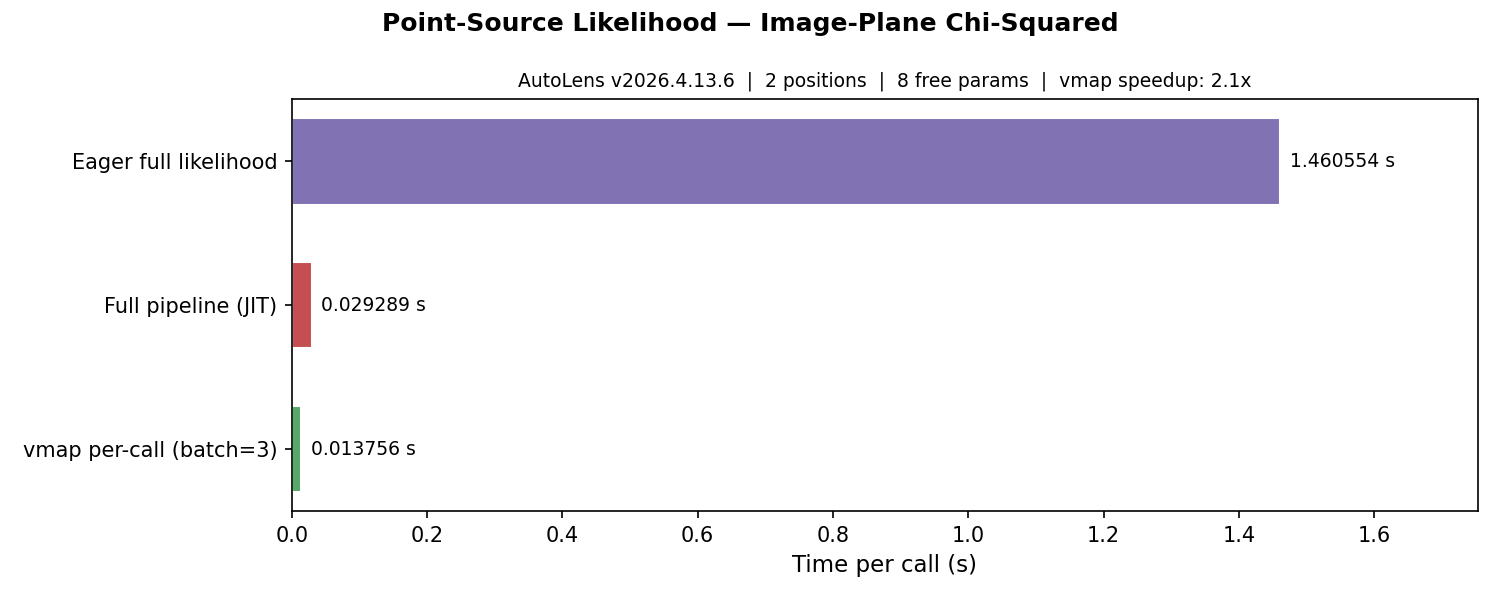
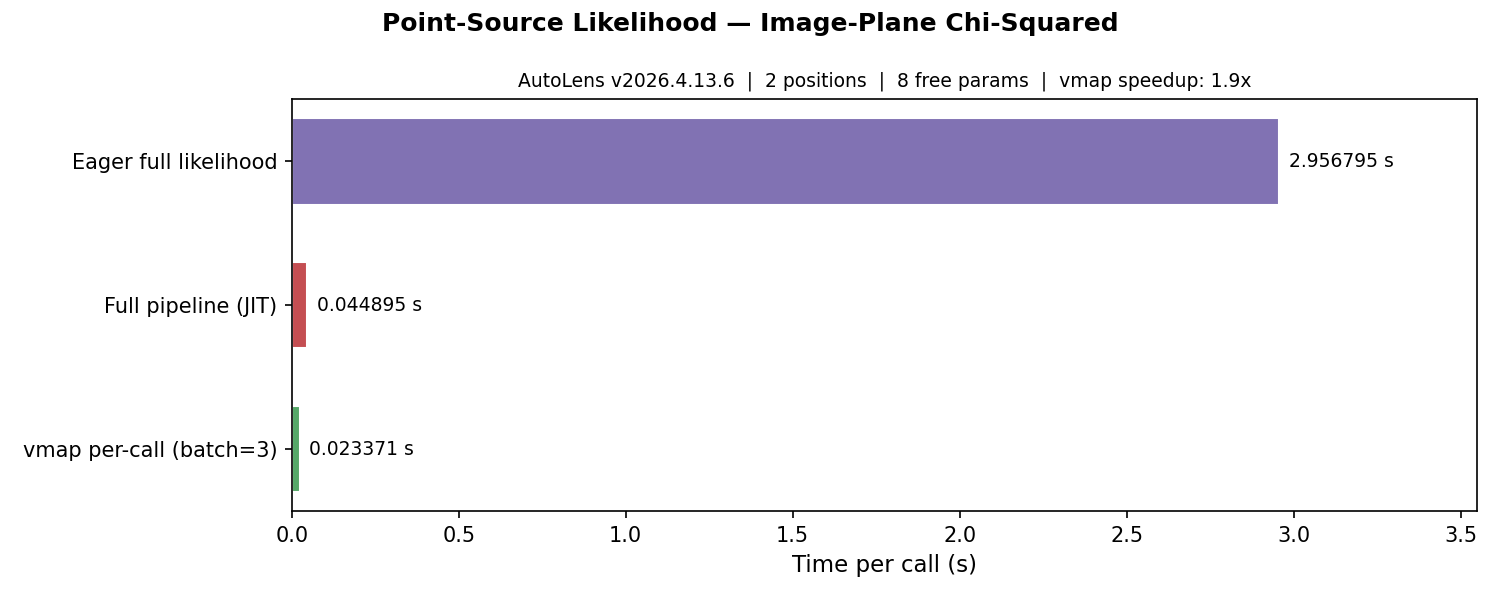
Update source_plane regression to Richardson-converged truth
EXPECTED_LOG_LIKELIHOOD_SOURCE_PLANE updated to -4491.83220547254
(np and jnp now agree). JIT regression rtol tightened from 2e-3
to 1e-4. Removed annotations referencing the pre-fix np/jnp
divergence. Regenerated result JSON/PNG artifacts.

Upstream PR: PyAutoLabs/PyAutoGalaxy#358

diff --git a/jax_profiling/point_source/source_plane.py b/jax_profiling/point_source/source_plane.py
@@ -11,23 +11,6 @@ source plane via the lens model, then computes a chi-squared between the
 ray-traced positions and the model source position.  No image-plane solver
 is required.
 
-LIBRARY-LEVEL NUMERICAL DRIFT (np vs jnp magnifications)
----------------------------------------------------------
-
-The earlier ``TracerArrayConversionError`` JIT blocker (``Grid2DIrregular.
-grid_2d_via_deflection_grid_from`` not propagating ``xp``) has been fixed
-upstream — the full source-plane likelihood now JIT-traces end-to-end.
-
-A separate numerical issue remains: the eager-np and eager-jnp paths of
-``LensCalc.magnification_2d_via_hessian_from`` disagree at ~5e-4 relative,
-which amplifies into a ~0.1% drift in the final log-likelihood.  See the
-follow-up prompt ``admin_jammy/prompt/autolens/lens_calc_magnification_xp_divergence.md``
-for the full analysis and plan.
-
-Until that lands, the JIT regression assertion below is loosened from
-``rtol=1e-4`` to ``rtol=2e-3`` so the script stays green.  The eager-only
-assertion remains tight.
-
 Pytree-native parameter inputs
 ------------------------------
 
@@ -496,14 +479,15 @@ print(f"  Bar chart saved to:    {chart_path}")
 
 
 # ===================================================================
-# Regression assertions (eager-only — see BLOCKER above)
+# Regression assertions (eager and full-pipeline JIT)
 # ===================================================================
 #
 # Seeded simulator (noise_seed=1 in simulators/point_source.py) + prior-median
-# parameter vector make the eager source-plane log-likelihood deterministic.
-# The full-JIT regression assertion is gated on full_pipeline_jits — once the
-# library blocker is fixed, both branches will fire.
-EXPECTED_LOG_LIKELIHOOD_SOURCE_PLANE = -4496.798984131583
+# parameter vector make the source-plane log-likelihood deterministic. Both
+# the eager numpy and the full-pipeline JIT paths now agree to float64
+# precision, following the Richardson-extrapolation fix to
+# LensCalc.hessian_from in PyAutoGalaxy (PR #358).
+EXPECTED_LOG_LIKELIHOOD_SOURCE_PLANE = -4491.83220547254
 
 np.testing.assert_allclose(
     log_likelihood_ref,
@@ -520,13 +504,10 @@ print(
 )
 
 if full_pipeline_jits:
-    # rtol loosened pending the np/jnp parity fix in
-    # LensCalc.magnification_2d_via_hessian_from — see
-    # admin_jammy/prompt/autolens/lens_calc_magnification_xp_divergence.md
     np.testing.assert_allclose(
         float(full_result),
         EXPECTED_LOG_LIKELIHOOD_SOURCE_PLANE,
-        rtol=2e-3,
+        rtol=1e-4,
         err_msg=(
             f"point_source/source_plane: regression — JIT log_likelihood drifted "
             f"(got {float(full_result)}, expected {EXPECTED_LOG_LIKELIHOOD_SOURCE_PLANE})"